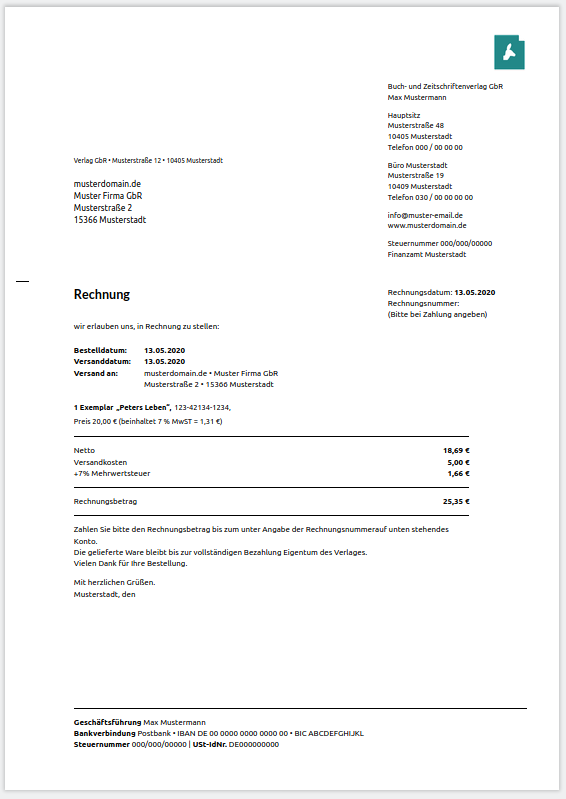
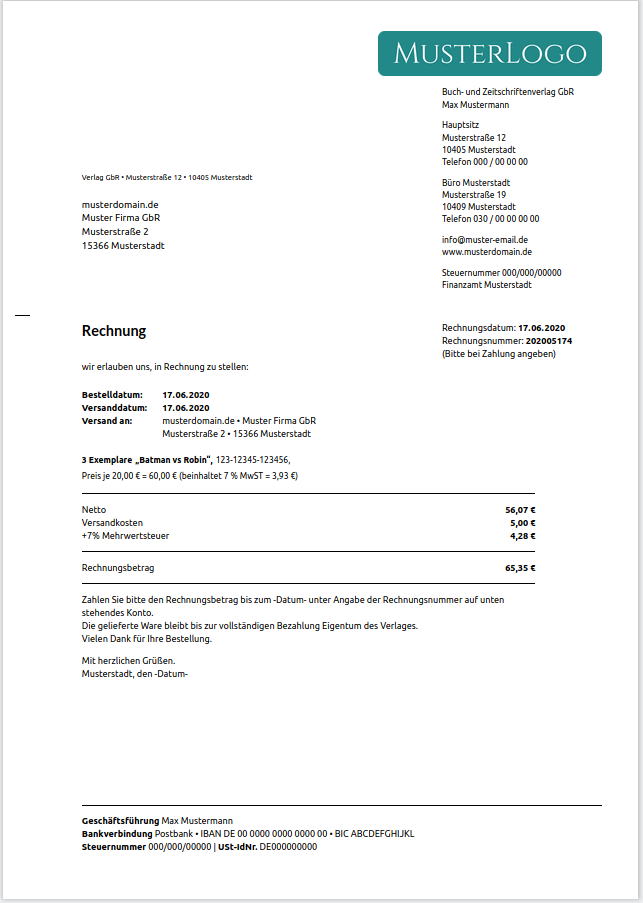
cosmetic updates

diff --git a/src/sceletons/company.js b/src/sceletons/company.js
@@ -1,7 +1,6 @@
 export default {
   name: "",
   executive: "",
-  logo: "",
   aboveClientInvoiceAddress:
     "<p>Verlag GbR • Musterstraße 12 • 10405 Musterstadt</p>",
   footerText:
@@ -17,8 +16,8 @@ Vielen Dank für Ihre Bestellung.</p>\
 Musterstadt, den -Datum-</p>",
   subjectAndBelow:
     "<h3>Rechnung</h3>\
-  <p><br></p>\
-  <p>wir erlauben uns, in Rechnung zu stellen:</p>",
+<p><br></p>\
+<p>wir erlauben uns, in Rechnung zu stellen:</p>",
   contactInformation:
     "<p>Buch- und Zeitschriftenverlag GbR<br>\
   Max Mustermann</p>\
@@ -34,4 +33,7 @@ Musterstadt, den -Datum-</p>",
   www.musterdomain.de</p>\
   <p>Steuernummer 000/000/00000<br>\
   Finanzamt Musterstadt</p>",
[3 lines of base64/hex data omitted]
 };

diff --git a/src/components/Invoices/Invoices.js b/src/components/Invoices/Invoices.js
@@ -11,6 +11,8 @@ import ReactDatePicker from "react-datepicker";
 import sendInvoice from "../../services/sendInvoice";
 import SendEmailInvoiceModal from "../SendEmailInvoiceModal/SendEmailInvoiceModal";
 
+import { monochromaticColors } from "../../constants";
+
 export default () => {
   const [invoices, , removeInvoice, updateInvoice] = useInvoices();
   const [invoiceDownloadSelected, setInvoiceDownloadSelected] = useState();
@@ -73,9 +75,9 @@ export default () => {
                         <Form style={{ marginBottom: 0 }}>
                           <Form.Group
                             style={{
-                              marginBottom: "0",
                               display: "flex",
                               alignItems: "center",
+                              margin: "0",
                             }}
                           >
                             <Checkbox
@@ -116,22 +118,28 @@ export default () => {
                           </Form.Group>
                         </Form>
                       </Table.Cell>
-                      <Table.Cell>
+                      <Table.Cell style={{}}>
                         <Button
                           primary
                           icon="edit"
                           onClick={() => history.push(`${path}/${i.id}`)}
                         ></Button>
-                        <Button
-                          secondary
-                          icon="download"
-                          onClick={() => setInvoiceDownloadSelected(i)}
-                        ></Button>
-                        <Button
-                          primary
-                          icon="mail"
-                          onClick={() => setInvoiceEmailSelected(i)}
-                        ></Button>
+                        <Button.Group>
+                          <Button
+                            secondary
+                            icon="download"
+                            onClick={() => setInvoiceDownloadSelected(i)}
+                          ></Button>
+                          <Button
+                            style={{
+                              borderLeft: "1px solid white",
+                              marginRight: "2px",
+                            }}
+                            secondary
+                            icon="mail"
+                            onClick={() => setInvoiceEmailSelected(i)}
+                          ></Button>
+                        </Button.Group>{" "}
                         <Button
                           negative
                           icon="trash"

diff --git a/src/pages/InvoiceNew/InvoiceNew.js b/src/pages/InvoiceNew/InvoiceNew.js
@@ -11,6 +11,7 @@ export default function InvoiceNew({ updateInvoice: _updateInvoice }) {
   const [company] = useCompany();
   const [customers] = useCustomers();
   const history = useHistory();
+  const today = new Date();
   useGA();
 
   const [, , , __updateInvoice, invoicesLength] = useInvoices();
@@ -21,6 +22,9 @@ export default function InvoiceNew({ updateInvoice: _updateInvoice }) {
       ...customerSceleton,
       id: customers.length,
     },
+    invoiceNumber: `${today.getFullYear()}${
+      today.getMonth() < 10 ? "0" + today.getMonth() : today.getMonth()
+    }${174 + invoicesLength}`,
     company,
   });
   // if the parent component needs to update invoices it can put the function in the props

diff --git a/src/components/Footer/Footer.js b/src/components/Footer/Footer.js
@@ -13,12 +13,9 @@ export default function Footer() {
             <h3>Social Media</h3>
             <ul>
               <li>
-                <Icon name="twitter" /> Twitter
-              </li>
-              <li>
-                <Link to="https://www.instagram.com/billeroo.de/">
+                <a href="https://www.instagram.com/billeroo.de/">
                   <Icon name="Instagram" /> Instagram
-                </Link>
+                </a>
               </li>
             </ul>
           </div>

diff --git a/src/hooks/useCompany.js b/src/hooks/useCompany.js
@@ -6,7 +6,7 @@ import getData from "../services/backend/getData";
 
 export default function useCompany() {
   const [company, setCompany] = useLocalStorage("company", companySceleton);
-
+  console.log(company);
   useEffect(() => {
     async function fetchData() {
       const data = await getData();

diff --git a/build/service-worker.js b/build/service-worker.js
@@ -14,7 +14,7 @@
 importScripts("https://storage.googleapis.com/workbox-cdn/releases/4.3.1/workbox-sw.js");
 
 importScripts(
-  "/precache-manifest.2f831a54d344b88c9aafd2e360e5b859.js"
+  "/precache-manifest.e10a1de82f175a01b558b73d2c000d72.js"
 );
 
 self.addEventListener('message', (event) => {

diff --git a/build/precache-manifest.e10a1de82f175a01b558b73d2c000d72.js b/build/precache-manifest.e10a1de82f175a01b558b73d2c000d72.js
@@ -1,6 +1,6 @@
 self.__precacheManifest = (self.__precacheManifest || []).concat([
   {
-    "revision": "d206601008a2f7ca296e0812dd2f42ee",
+    "revision": "55d62d8f4a18686cb3c9b935b0706a86",
     "url": "/index.html"
   },
   {
